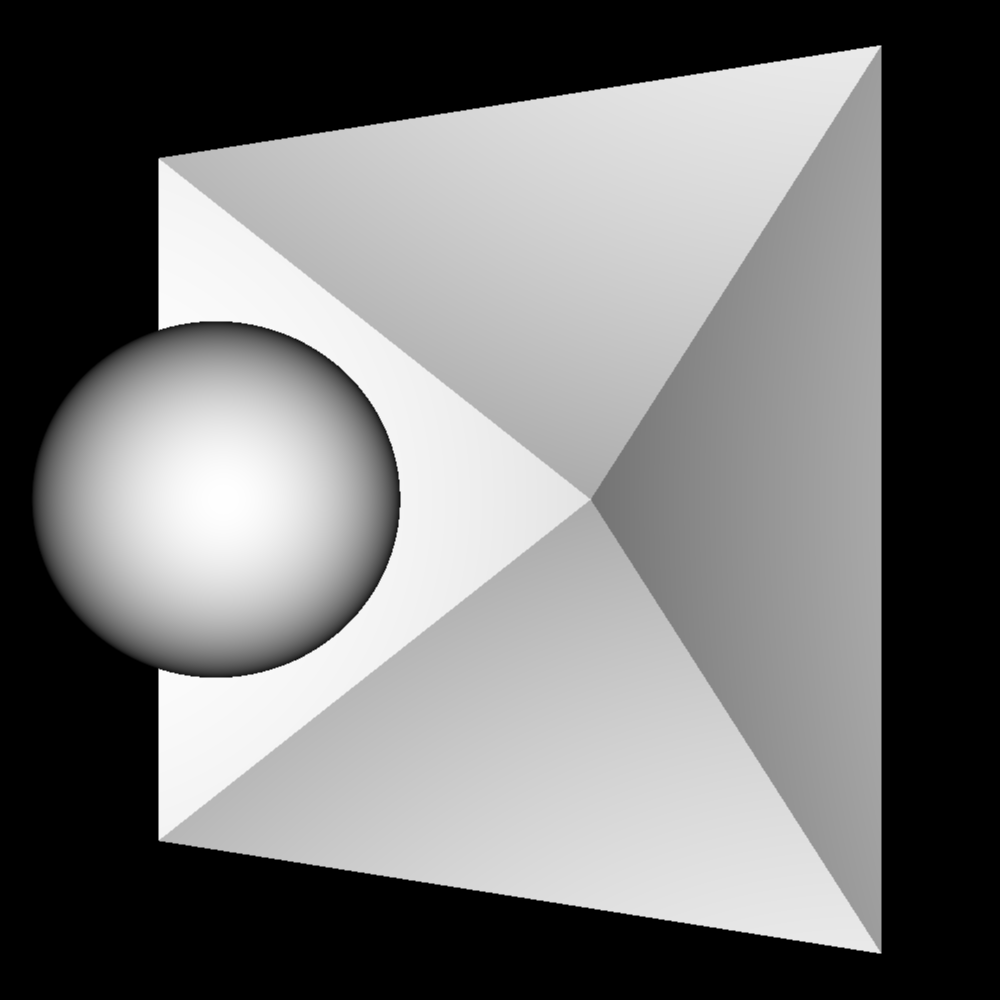
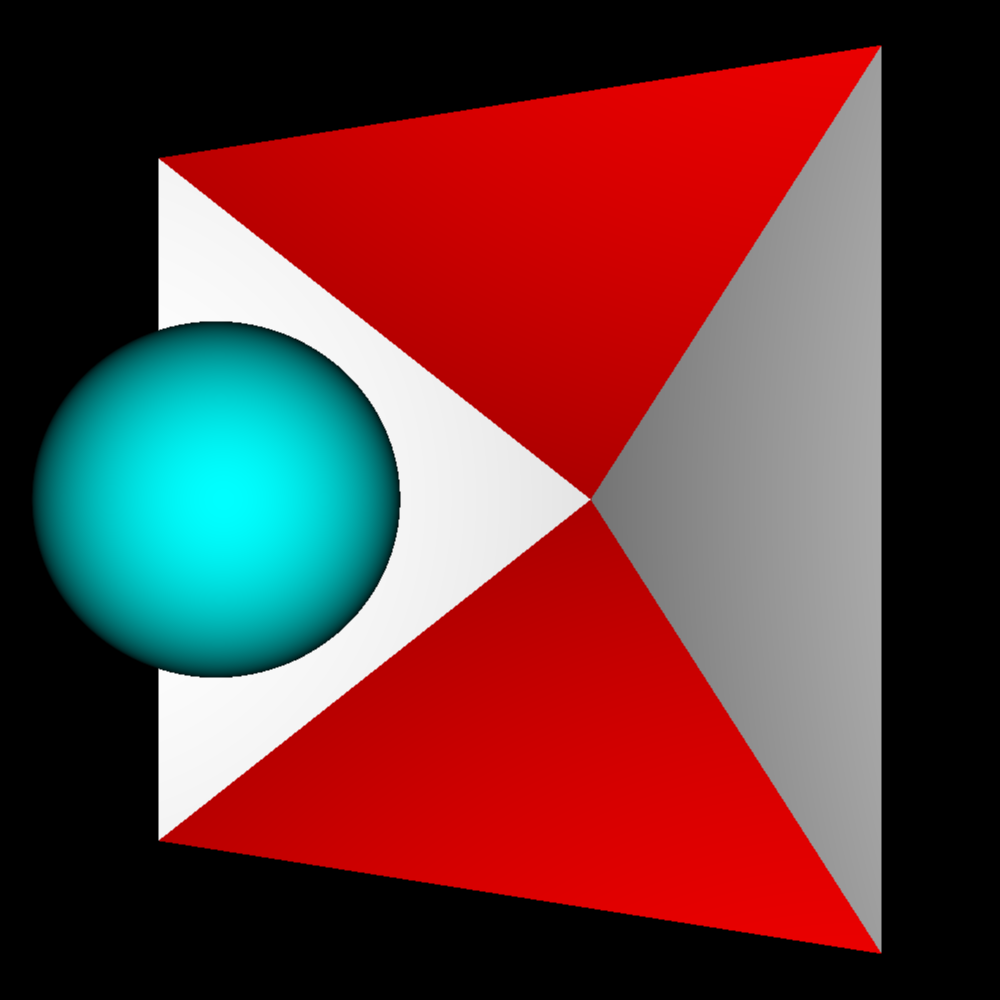
Added object coloring

diff --git a/src/tracer/Main.java b/src/tracer/Main.java
@@ -1,5 +1,7 @@
 package tracer;
 
+import java.awt.Color;
+
 import patchi.math.space.Vector;
 import tracer.shapes.Sphere;
 import tracer.shapes.Tri;
@@ -22,12 +24,12 @@ public class Main {
 				
 		Raytracer R = new Raytracer(CAMERA_ORIGIN, CAMERA_PITCH, CAMERA_YAW, CAMERA_ROLL, XRES, YRES, FOCAL_LENGTH, FOV, AA, THREADS, TILE_SIZE);
 				
-		R.addShape(new Tri(new Vector(0d,0d,-2d), new Vector(1d,1d,-1d), new Vector(-1d, 1d,-1d)));
-		R.addShape(new Tri(new Vector(0d,0d,-2d), new Vector(1d,-1d,-1d), new Vector(1d,1d,-1d)));
-		R.addShape(new Tri(new Vector(0d,0d,-2d), new Vector(-1d,-1d,-1d), new Vector(1d,-1d,-1d)));
-		R.addShape(new Tri(new Vector(0d,0d,-2d), new Vector(-1d,1d,-1d), new Vector(-1d,-1d,-1d)));
+		R.addShape(new Tri(new Vector(0d,0d,-2d), new Vector(1d,1d,-1d), new Vector(-1d, 1d,-1d), Color.RED));
+		R.addShape(new Tri(new Vector(0d,0d,-2d), new Vector(1d,-1d,-1d), new Vector(1d,1d,-1d), Color.WHITE));
+		R.addShape(new Tri(new Vector(0d,0d,-2d), new Vector(-1d,-1d,-1d), new Vector(1d,-1d,-1d), Color.RED));
+		R.addShape(new Tri(new Vector(0d,0d,-2d), new Vector(-1d,1d,-1d), new Vector(-1d,-1d,-1d), Color.WHITE));
 		
-		R.addShape(new Sphere(0.3d, new Vector(0d,0d,0d)));
+		R.addShape(new Sphere(0.3d, new Vector(0d,0d,0d), Color.CYAN));
 		
 		R.write();
 		

diff --git a/src/tracer/Raytracer.java b/src/tracer/Raytracer.java
@@ -185,20 +185,19 @@ public class Raytracer {
 
 	}
 
+	
 	private Color shade(Intersect I) {
-
-		Color C = Color.BLACK;
-
-		if(I == null) return C;
+		
+		if(I == null) return Color.BLACK;
+		Color C = I.getShape().getColor();
 
 		Vector dIn = I.getInbound().getDirection();
 		Vector dNorm = I.getNormal();
 
 		double dot = dNorm.dot(dIn.negate());
 
-		int facingShade = (int) (dot * 255d);
-
-		C = new Color(facingShade,facingShade,facingShade);
+		C = PatchiColor.scalarMultiply(C, (float) dot);
+		
 		return C;
 
 	}

diff --git a/src/tracer/Intersect.java b/src/tracer/Intersect.java
@@ -10,12 +10,14 @@ public class Intersect {
 	private final Vector coords;
 	private final Vector normal;
 	private final Ray inbound; 
+	private final Shape shape;
 	
 	public Intersect(double t, Vector coords, Shape S, Ray inbound) {
 		
 		this.t = t;
 		this.coords=coords;
 		this.inbound = inbound;
+		this.shape = S;
 		normal = S.getNormal(coords);
 		
 	}
@@ -34,6 +36,10 @@ public class Intersect {
 
 	public Ray getInbound() {
 		return inbound;
+	}
+
+	public Shape getShape() {
+		return shape;
 	}
 
 }

diff --git a/src/tracer/shapes/Tri.java b/src/tracer/shapes/Tri.java
@@ -1,5 +1,7 @@
 package tracer.shapes;
 
+import java.awt.Color;
+
 import patchi.math.space.Ray;
 import patchi.math.space.Vector;
 import tracer.Intersect;
@@ -12,8 +14,10 @@ public class Tri extends Shape {
 	
 	private Vector normal;
 	
-	public Tri(Vector A, Vector B, Vector C) {
+	public Tri(Vector A, Vector B, Vector C, Color color) {
 				
+		super(color);
+		
 		this.A = A;
 		AB = new Vector(A, B);
 		AC = new Vector(A, C);

diff --git a/src/tracer/shapes/Sphere.java b/src/tracer/shapes/Sphere.java
@@ -1,5 +1,7 @@
 package tracer.shapes;
 
+import java.awt.Color;
+
 import patchi.math.space.Ray;
 import patchi.math.space.Vector;
 import tracer.Intersect;
@@ -9,8 +11,10 @@ public class Sphere extends Shape {
 	double radius;
 	Vector centre;
 
-	public Sphere(double radius, Vector centre) {
+	public Sphere(double radius, Vector centre, Color color) {
 
+		super(color);
+		
 		this.radius = radius;
 		this.centre = centre;
 	}

diff --git a/src/tracer/shapes/Shape.java b/src/tracer/shapes/Shape.java
@@ -1,13 +1,25 @@
 package tracer.shapes;
 
+import java.awt.Color;
+
 import patchi.math.space.Ray;
 import patchi.math.space.Vector;
 import tracer.Intersect;
 
 public abstract class Shape {
 
+	protected Color COLOR;
+
+	protected Shape(Color color) {
+		COLOR = color;
+	}
+	
 	public abstract Intersect intersect(Ray R);
 
 	public abstract Vector getNormal(Vector V);
+	
+	public Color getColor() {
+		return COLOR;
+	}
 	
 }
